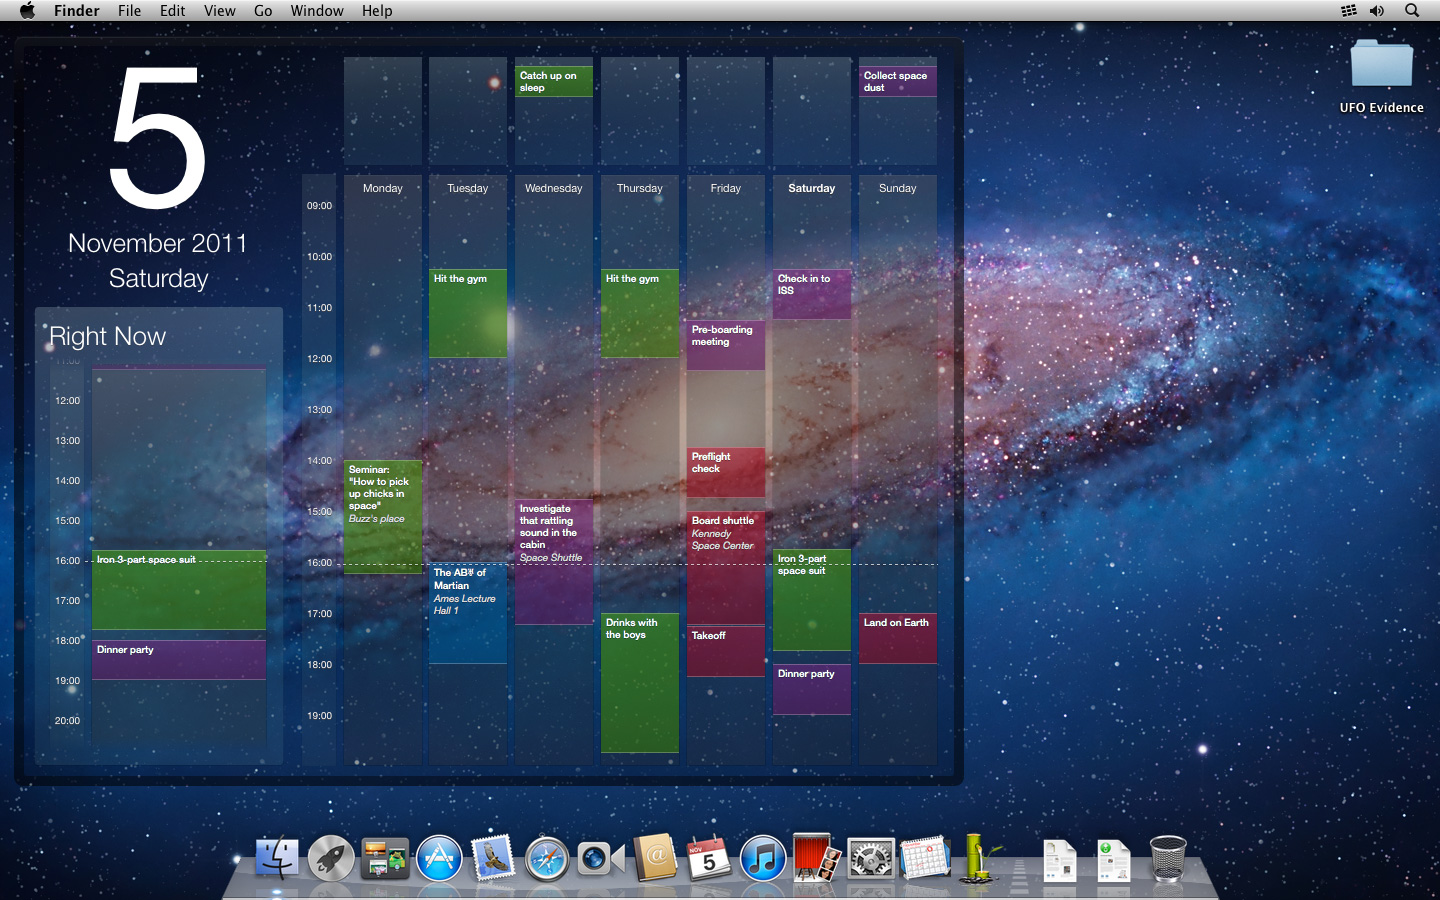
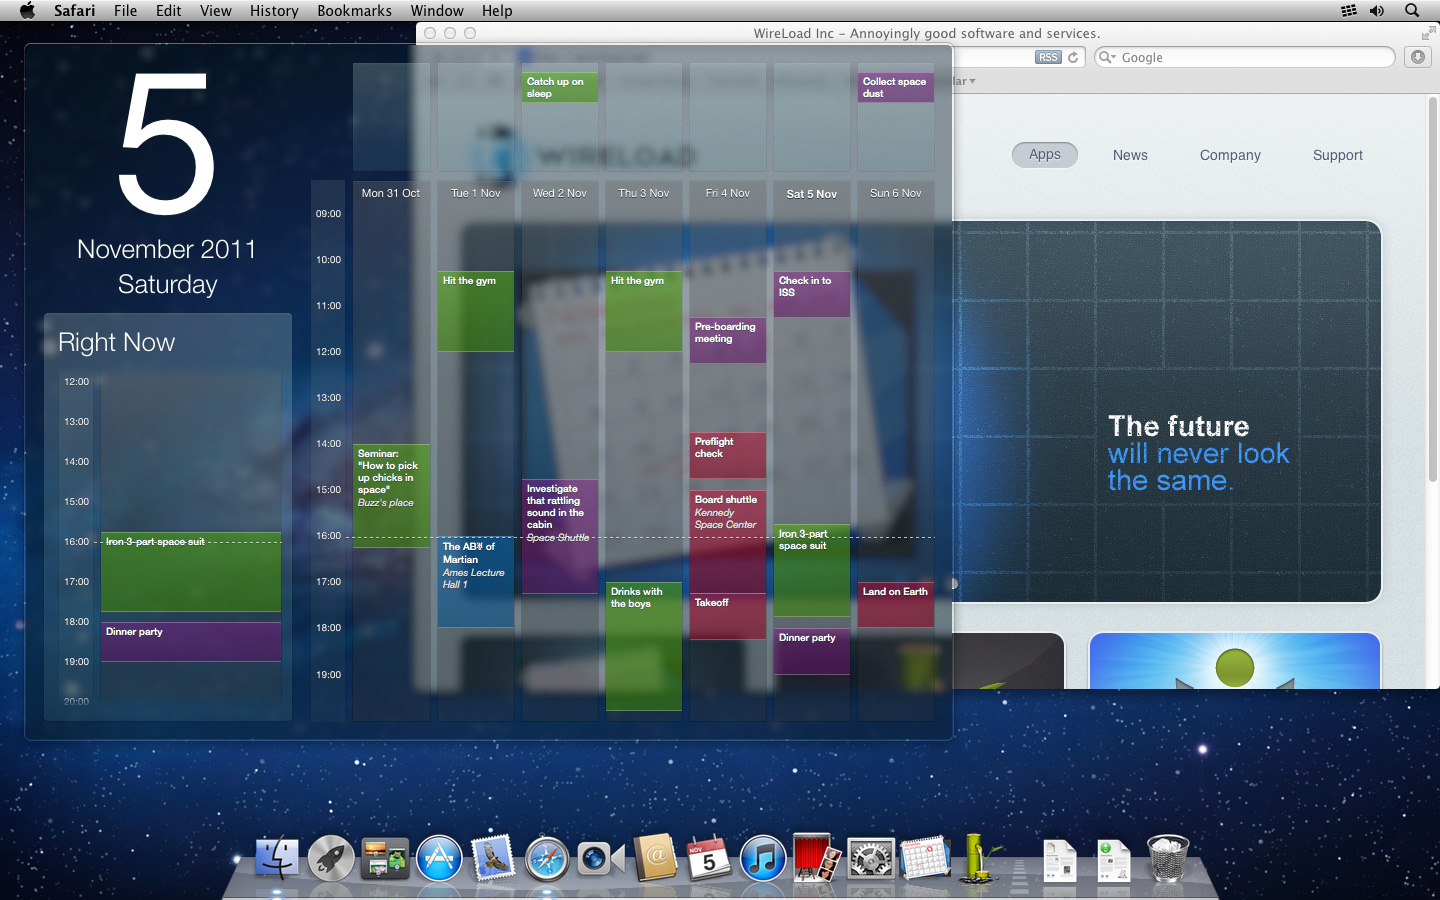
Blotter 2.1 screenshots and features.

diff --git a/www/wp-content/themes/wireload-02/blotter-page.php b/www/wp-content/themes/wireload-02/blotter-page.php
@@ -65,22 +65,22 @@ Template Name: Blotter Page
 			<div class="gallery">
 				<ul class="gallery-list">
 					<li>
-					  <a href="<?php echo_images_uri() ?>/blotter/blotter-calendar-on-leaf-full.jpg">
-					    <img class="sliding" src="<?php echo_images_uri() ?>/blotter/blotter-calendar-on-leaf.jpg" alt="Blotter calendar on green Mac OS X wallpaper." width="600" height="375" />
+					  <a href="<?php echo_images_uri() ?>/blotter/blotter-calendar-on-leaf-full.jpg?v=2">
+					    <img class="sliding" src="<?php echo_images_uri() ?>/blotter/blotter-calendar-on-leaf.jpg?v=2" alt="Blotter calendar on green Mac OS X wallpaper." width="600" height="375" />
 					  </a>
-				    <img src="<?php echo_images_uri() ?>/blotter/blotter-calendar-on-leaf-ref.png" alt="Blotter calendar reflection." width="600" height="70" />
+				    <img src="<?php echo_images_uri() ?>/blotter/blotter-calendar-on-leaf-ref.png?v=2" alt="Blotter calendar reflection." width="600" height="70" />
 					</li>
 					<li>
-					  <a href="<?php echo_images_uri() ?>/blotter/blotter-calendar-over-milkyway-full.jpg">
-					    <img class="sliding" src="<?php echo_images_uri() ?>/blotter/blotter-calendar-over-milkyway.jpg" alt="Blotter calendar with 'New Event' window." width="600" height="375" />
+					  <a href="<?php echo_images_uri() ?>/blotter/blotter-calendar-over-milkyway-full.jpg?v=2">
+					    <img class="sliding" src="<?php echo_images_uri() ?>/blotter/blotter-calendar-over-milkyway.jpg?v=2" alt="Blotter calendar with 'New Event' window." width="600" height="375" />
 					  </a>
-				    <img src="<?php echo_images_uri() ?>/blotter/blotter-calendar-over-milkyway-ref.png" alt="Blotter calendar reflection." width="600" height="70" />
+				    <img src="<?php echo_images_uri() ?>/blotter/blotter-calendar-over-milkyway-ref.png?v=2" alt="Blotter calendar reflection." width="600" height="70" />
 					</li>
 					<li>
-					  <a href="<?php echo_images_uri() ?>/blotter/blotter-calendar-over-rome-full.jpg">
-					    <img class="sliding" src="<?php echo_images_uri() ?>/blotter/blotter-calendar-over-rome.jpg" alt="Blotter calendar over a desktop background of Rome." width="600" height="375" />
+					  <a href="<?php echo_images_uri() ?>/blotter/blotter-calendar-over-rome-full.jpg?v=2">
+					    <img class="sliding" src="<?php echo_images_uri() ?>/blotter/blotter-calendar-over-rome.jpg?v=2" alt="Blotter calendar over a desktop background of Rome." width="600" height="375" />
 					  </a>
-				    <img src="<?php echo_images_uri() ?>/blotter/blotter-calendar-over-rome-ref.png" alt="Blotter calendar reflection." width="600" height="70" />
+				    <img src="<?php echo_images_uri() ?>/blotter/blotter-calendar-over-rome-ref.png?v=2" alt="Blotter calendar reflection." width="600" height="70" />
 					</li>
 				</ul>
 			</div>
@@ -104,8 +104,8 @@ Template Name: Blotter Page
       </div>
 			<ul class="advantage-list">
 				<li class="type1"><strong>Less than meets the eye.</strong> Blotter uses very little memory and processing power.</li>
-				<li class="type2"><strong>Rolling 7 day option.</strong> View the 7 next days instead of a regular week.</li>
-				<li class="type3"><strong>Narrow option.</strong> Save space with only a to do list and upcoming events.</li>
+				<li class="type2"><strong>Go down memory lane. Or up.</strong> View past and coming weeks with ease.</li>
+				<li class="type3"><strong>Bring to Front.</strong> Bring Blotter to front for a quick look above the clutter.</li>
 			</ul>
 
 			<a href="http://itunes.apple.com/us/app/blotter/id406580224?mt=12" class="app-store-button"><img src="<?php echo_images_uri() ?>/app_store.png" alt="Available Now On The App Store" /></a>
